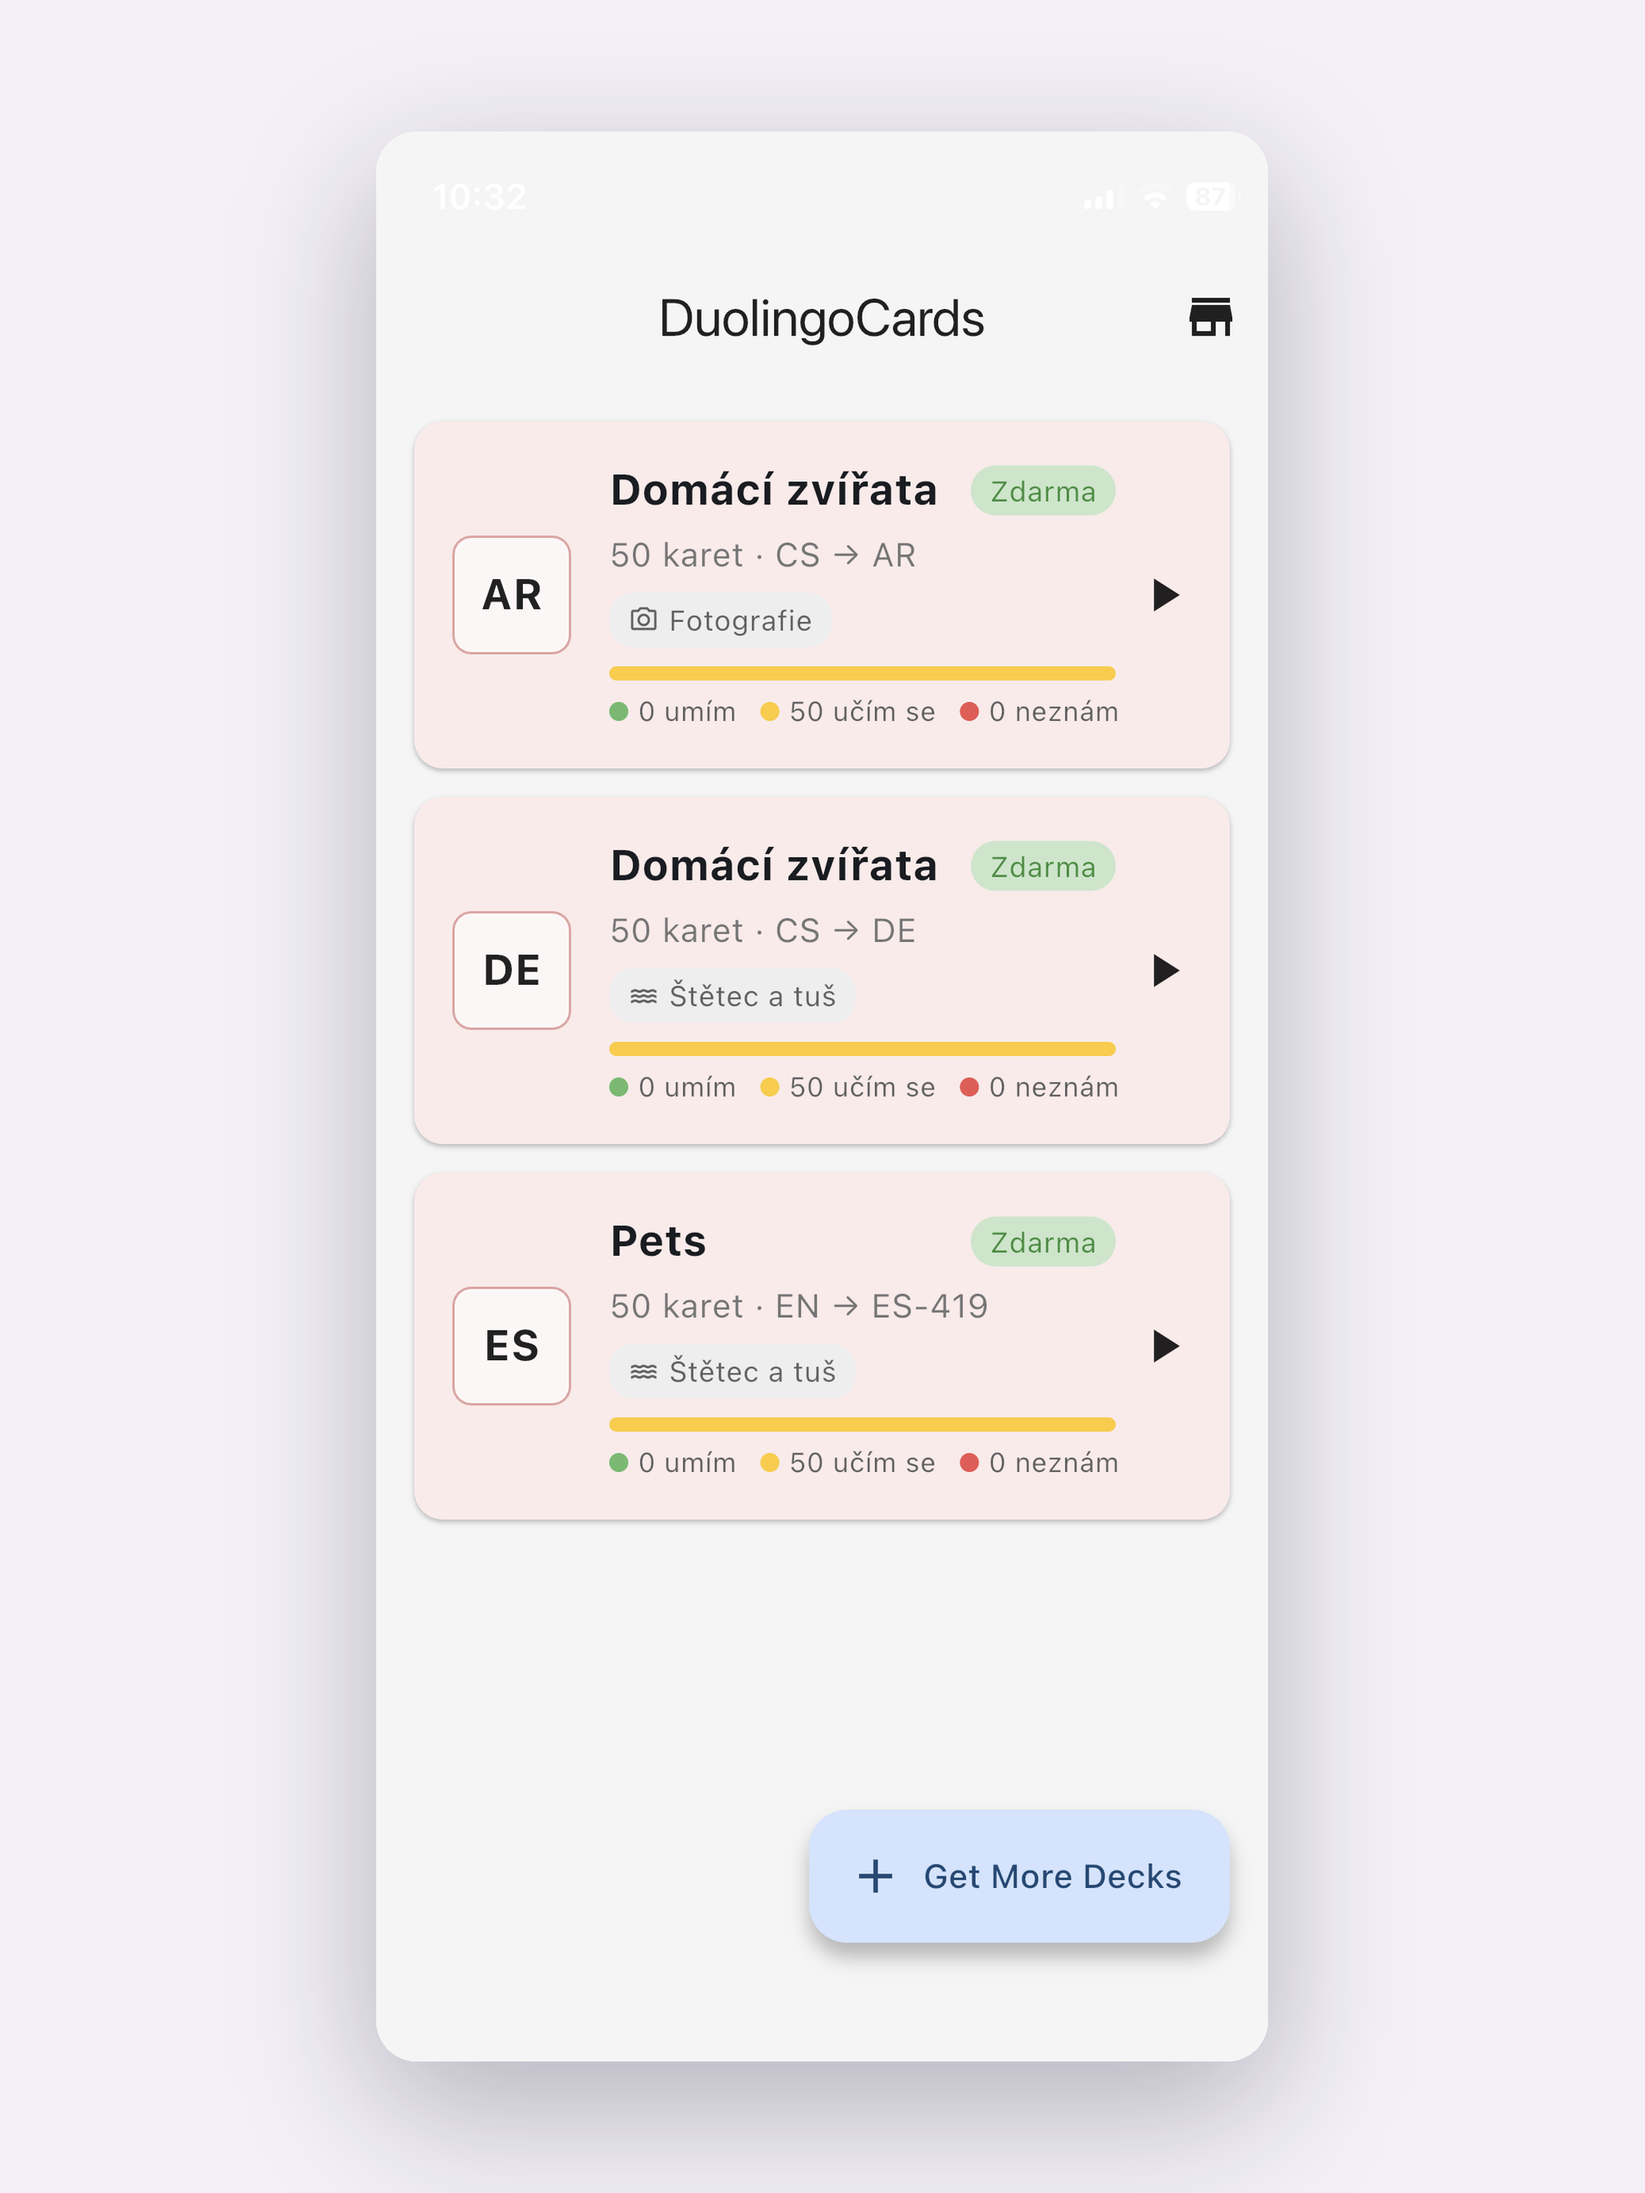
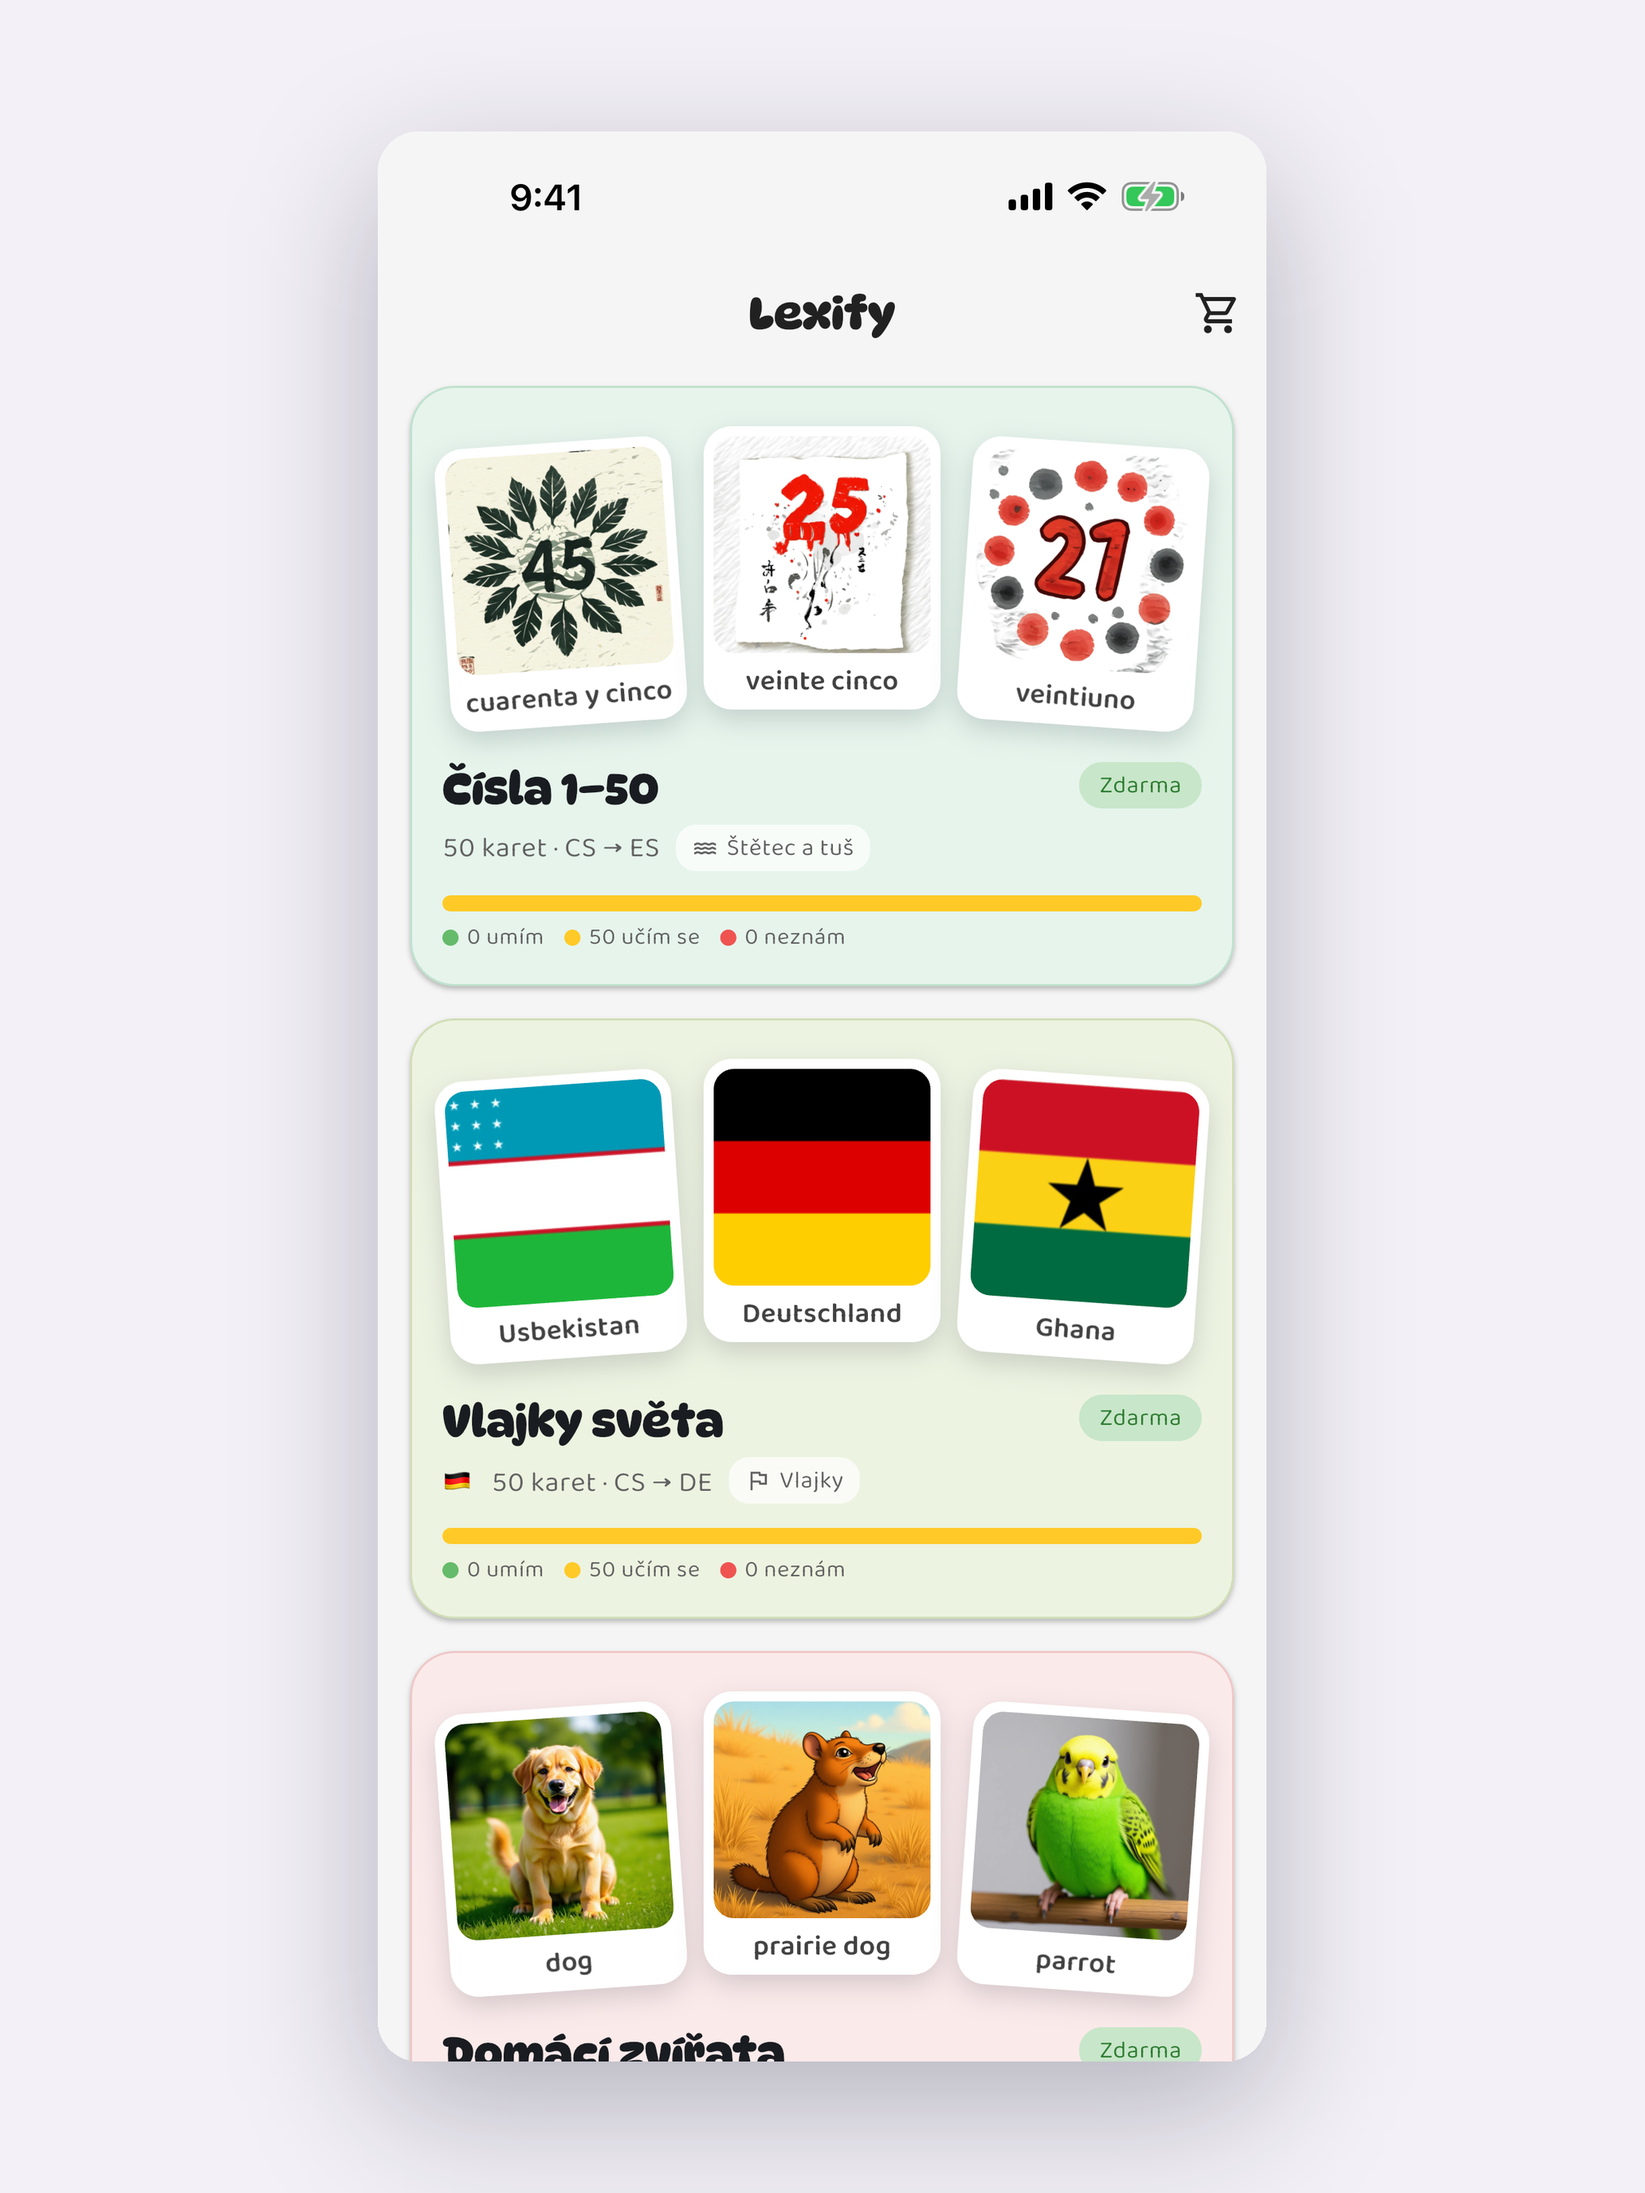
tools: screenshot walk shoots the flags deck; App Store sets for 2.3.2
The walk adds flags_deck (store detail) and flags_card (study), and pins the
pets study shots to the hamster instead of a random draw. appstore_shots.py
gains the 6.3" slot (1206x2622), --targets, and clears a target's old set.

diff --git a/test_driver/site_app.dart b/test_driver/site_app.dart
@@ -6,6 +6,7 @@ import 'package:flutter/gestures.dart';
 import 'package:flutter/services.dart' show FontLoader;
 import 'package:flutter/material.dart';
 import 'package:flutter_driver/driver_extension.dart';
+import 'package:shared_preferences/shared_preferences.dart';
 
 import 'package:duolingo_cards/l10n/app_localizations.dart';
 import 'package:duolingo_cards/main.dart';
@@ -26,6 +27,12 @@ const _home = [
   ('animals-pets', 'cs', 'en', 'photo'),
 ];
 
+/// The card the study shots show. The study screen draws at random, and the
+/// draw once landed on the deck's darkest picture.
+const _studyDeck = 'animals-pets';
+const _studyCard = 'pet.hamster';
+const _studyPrefs = 'card_priorities_$_studyDeck';
+
 const _pointer = 4242;
 Offset _dragAt = Offset.zero;
 
@@ -43,10 +50,27 @@ Future<String> _handle(String? message) async {
         'store': l10n.homeStoreTooltip,
         'watercolor': l10n.styleWatercolor,
         'pets': await title('animals-pets'),
+        'flags': await title('geo-flags'),
         'weather': await title('weather'),
         'l2': langDisplayName('ar', l10n),
         'l2pick': langDisplayName('ja', l10n),
       });
+    // Weight every other card of the study deck to zero, so the draw can only
+    // return [_studyCard]. Done after the home shot — the tile's progress bar
+    // reads the same numbers — and undone by 'unpin'.
+    case 'pin':
+      final deck = await LanguageDeckService.instance.load(_studyDeck);
+      final prefs = await SharedPreferences.getInstance();
+      await prefs.setString(
+          _studyPrefs,
+          jsonEncode({
+            for (final c in deck.cards)
+              c.priorityId: {'priority': c.priorityId == _studyCard ? 10 : 0},
+          }));
+      return 'ok';
+    case 'unpin':
+      await (await SharedPreferences.getInstance()).remove(_studyPrefs);
+      return 'ok';
     // Hold a card mid-swipe to the right, far enough for the heart to show.
     case 'drag':
       final size = view.physicalSize / view.devicePixelRatio;

diff --git a/test_driver/site_app_test.dart b/test_driver/site_app_test.dart
@@ -88,6 +88,11 @@ Future<void> main() async {
     await driver.tap(find.text(t('l2pick')));
     await driver.tap(back);
 
+    // The free flags deck as the store offers it.
+    await openFromStore(t('flags'));
+    await shot('flags_deck');
+    await driver.tap(back);
+
     // Style picker: a paid deck in its illustrated look.
     await openFromStore(t('weather'));
     await driver.tap(find.text(t('watercolor')));
@@ -99,12 +104,20 @@ Future<void> main() async {
     await driver.scrollUntilVisible(
         find.byType('ReorderableListView'), find.text(t('pets')),
         dyScroll: -250);
+    await driver.requestData('pin');
     await driver.tap(find.text(t('pets')));
     await driver.waitFor(find.byType('LanguageDeckStudyScreen'));
     await shot('card');
     await driver.requestData('drag');
     await shot('card_like');
     await driver.requestData('release');
+
+    // And a flag card in study.
+    await driver.tap(back);
+    await driver.requestData('unpin');
+    await driver.tap(find.text(t('flags')));
+    await driver.waitFor(find.byType('LanguageDeckStudyScreen'));
+    await shot('flags_card');
   } finally {
     await driver.close();
   }

diff --git a/tools/appstore_shots.py b/tools/appstore_shots.py
@@ -5,7 +5,7 @@ Raw captures are the wrong size for the store and carry an alpha channel from
 the device's rounded corners — App Store Connect rejects both. This flattens
 them onto white and produces every size the app's device families require.
 
-    python3 tools/appstore_shots.py
+    python3 tools/appstore_shots.py [--src DIR] [--targets iphone-6.9,ipad-13]
 
 Input:  ../ol1n.now/apps/lexify/screenshots/raw/mobile/ios/*.png  (--src to change)
 Output: store/appstore_screenshots/<size>/NN_<name>.png
@@ -32,6 +32,9 @@ OUT_DIR = ROOT / "store" / "appstore_screenshots"
 # mandatory too because the Xcode target declares TARGETED_DEVICE_FAMILY "1,2".
 TARGETS = {
     "iphone-6.9": ((1290, 2796), "cover"),
+    # App Store Connect's "iPhone with Dynamic Island (medium display)" slot
+    # (6.1" / 6.3") takes 1206x2622 or 1179x2556 and nothing larger.
+    "iphone-6.3": ((1206, 2622), "cover"),
     "ipad-13": ((2064, 2752), "frame"),
     # Google Play caps phone screenshots at a 2:1 aspect; the raw captures are
     # 2.165:1, so they cannot be uploaded as-is and cannot be cover-cropped to
@@ -42,7 +45,8 @@ TARGETS = {
 
 # Display order in the listing — what the deck looks like before why it is
 # worth buying. Anything not listed is appended alphabetically.
-ORDER = ["home", "card", "card_like", "akvarel_style", "shop_languages"]
+ORDER = ["home", "shop", "flags_deck", "flags_card", "card", "card_like",
+         "akvarel_style", "shop_languages"]
 
 FRAME_BG = (243, 240, 248)  # pastel lavender, neutral against every deck hue
 
@@ -104,13 +108,22 @@ def main():
         i = argv.index("--src")
         src = pathlib.Path(argv[i + 1])
 
+    targets = dict(TARGETS)
+    if "--targets" in argv:
+        names = argv[argv.index("--targets") + 1].split(",")
+        targets = {n: TARGETS[n] for n in names}
+
     shots = sorted(src.glob("*.png"), key=sort_key)
     if not shots:
         raise SystemExit(f"no screenshots in {src}")
 
-    for name, (size, mode) in TARGETS.items():
+    for name, (size, mode) in targets.items():
         out = OUT_DIR / name
         out.mkdir(parents=True, exist_ok=True)
+        # The numbering shifts whenever a scene is added; drop the old set so
+        # no stale NN_<name>.png is left to be uploaded by mistake.
+        for old in out.glob("*.png"):
+            old.unlink()
         for i, path in enumerate(shots, start=1):
             im = flatten(Image.open(path))
             result = cover(im, size) if mode == "cover" else frame(im, size)
